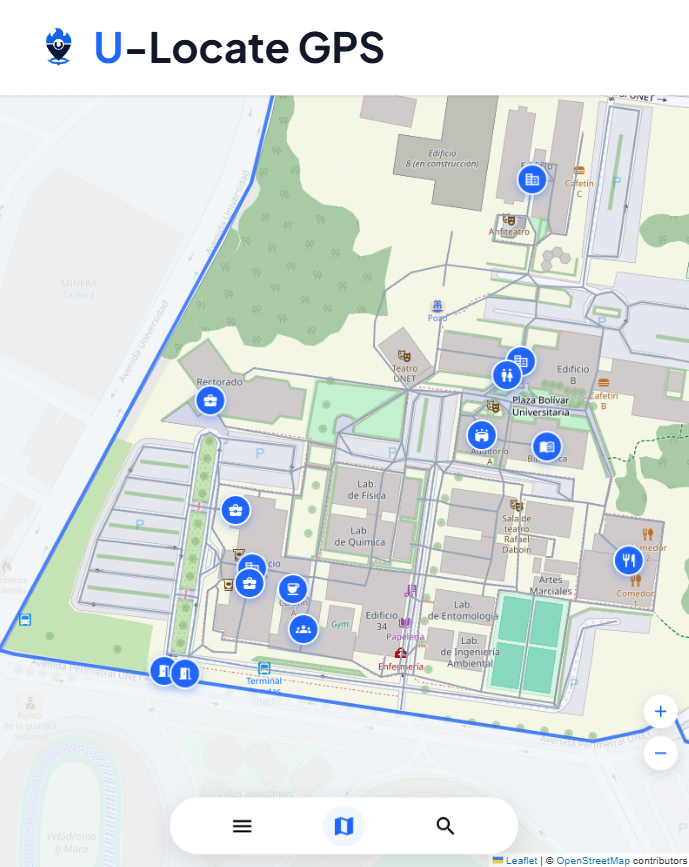
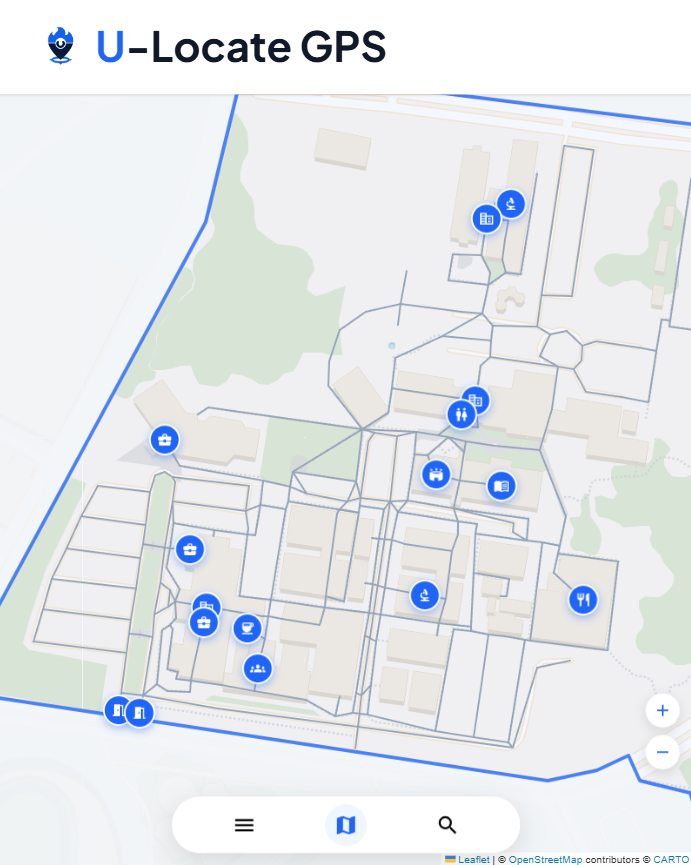
Ajuste de Z para botones del mapa y nueva imagen del mapa para la landing

diff --git a/src/components/map/CampusMap.jsx b/src/components/map/CampusMap.jsx
@@ -503,7 +503,7 @@ const CampusMap = forwardRef(function CampusMap({
       {/* ── Botones de Zoom ─────────────────────────────────────────────────── */}
       {createPortal(
         <div
-          style={{ zIndex: 59 }}
+          style={{ zIndex: 3 }}
           className="fixed
             top-24 right-3
             md:top-auto md:bottom-28 md:right-4
